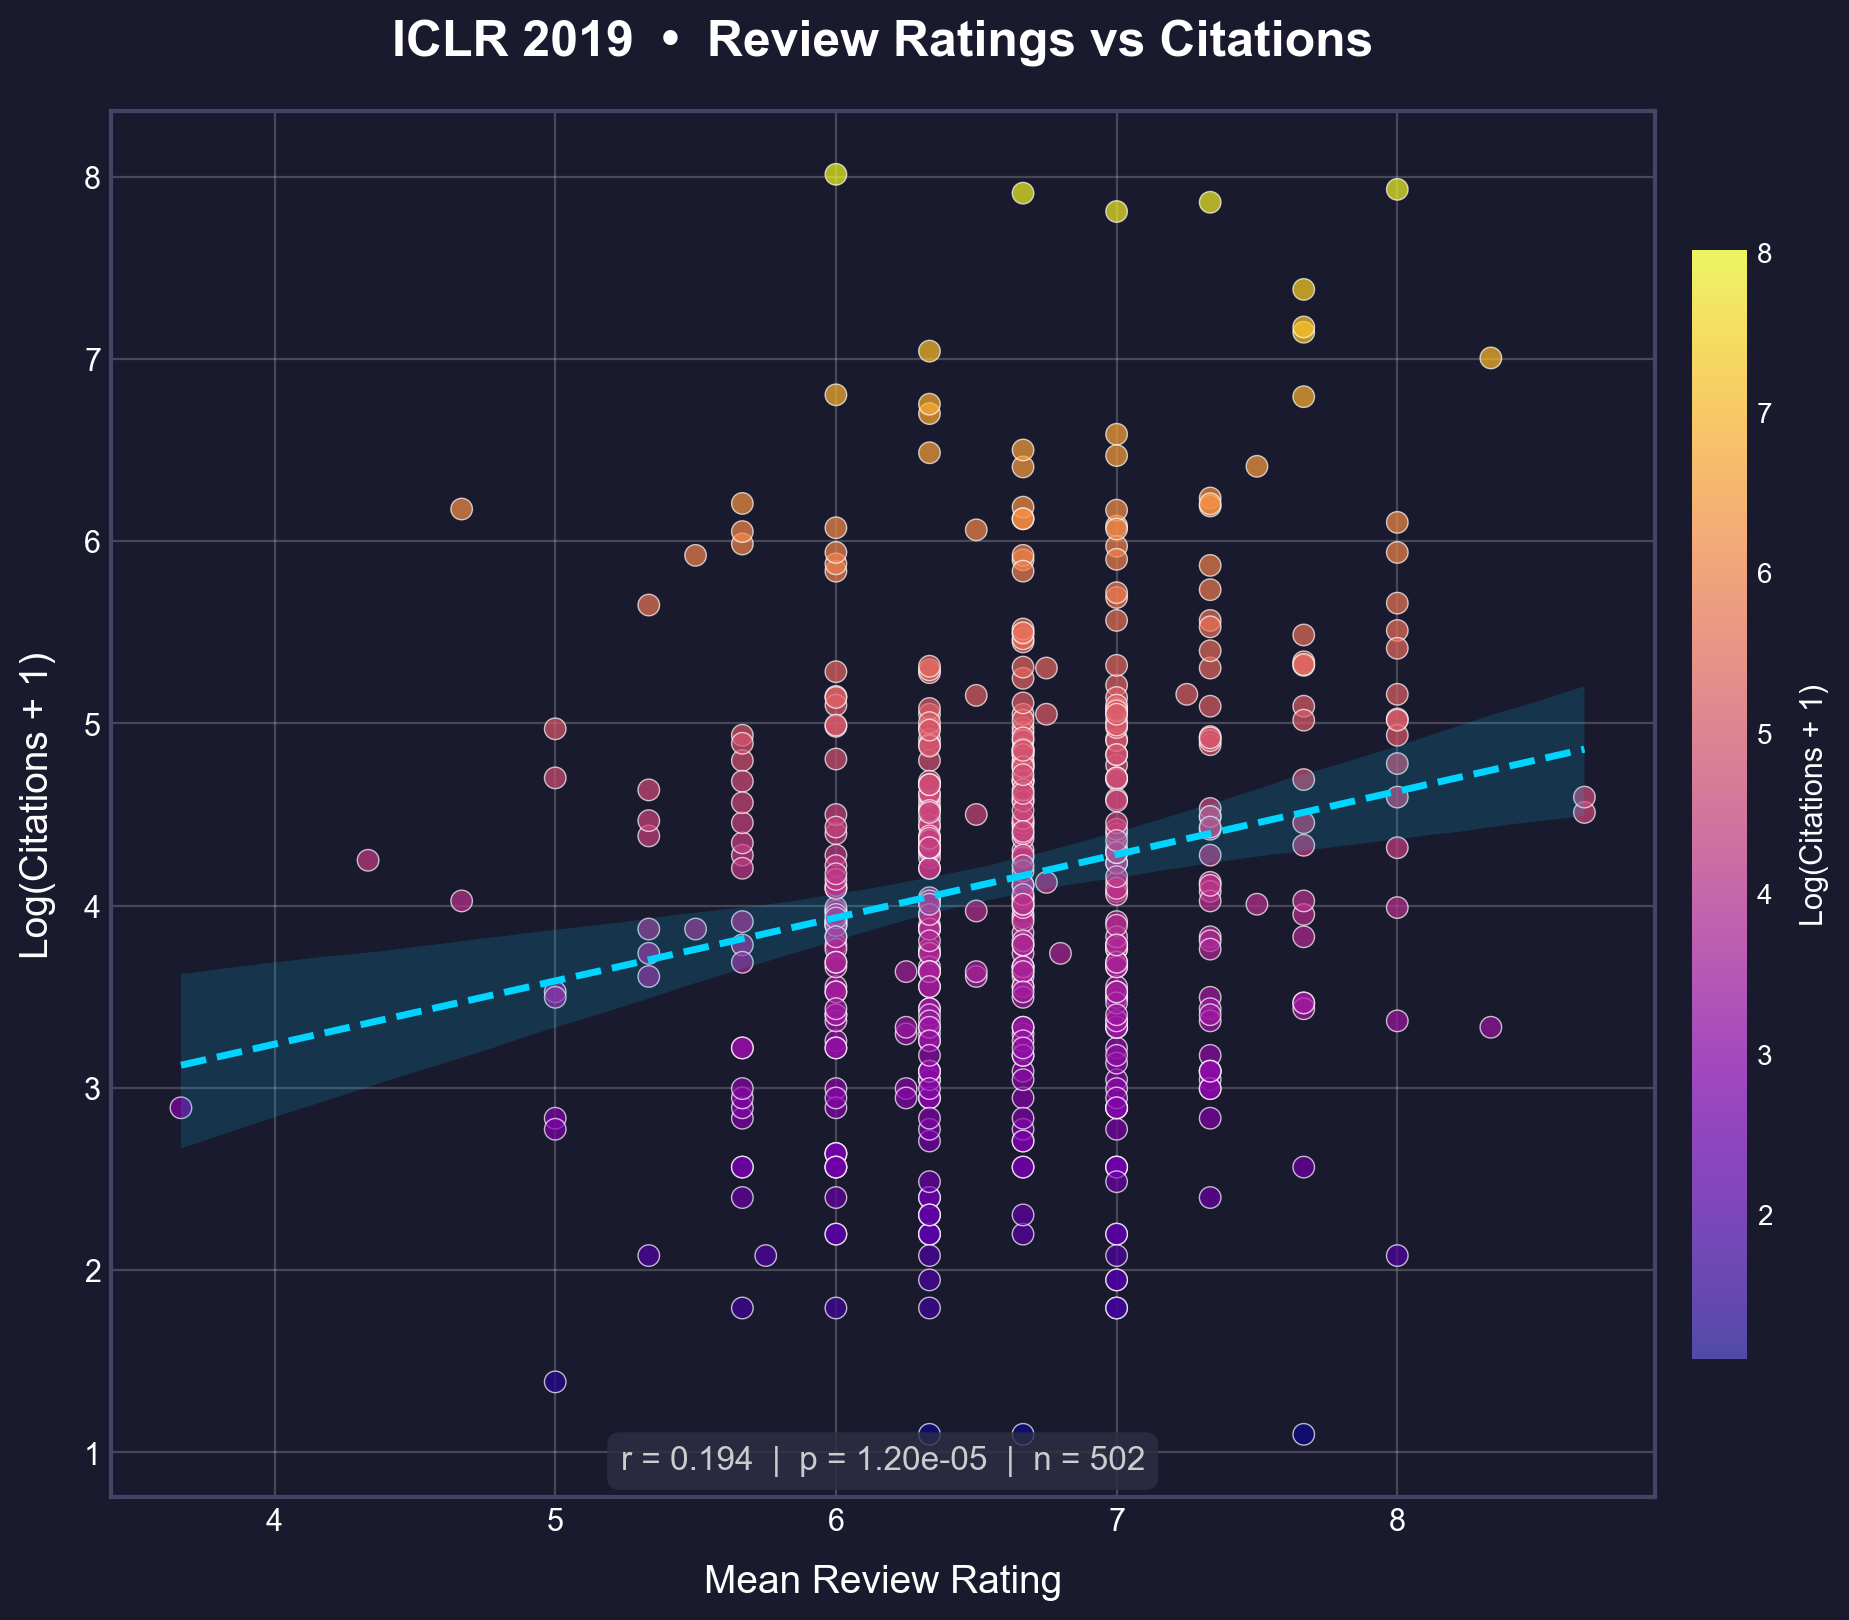
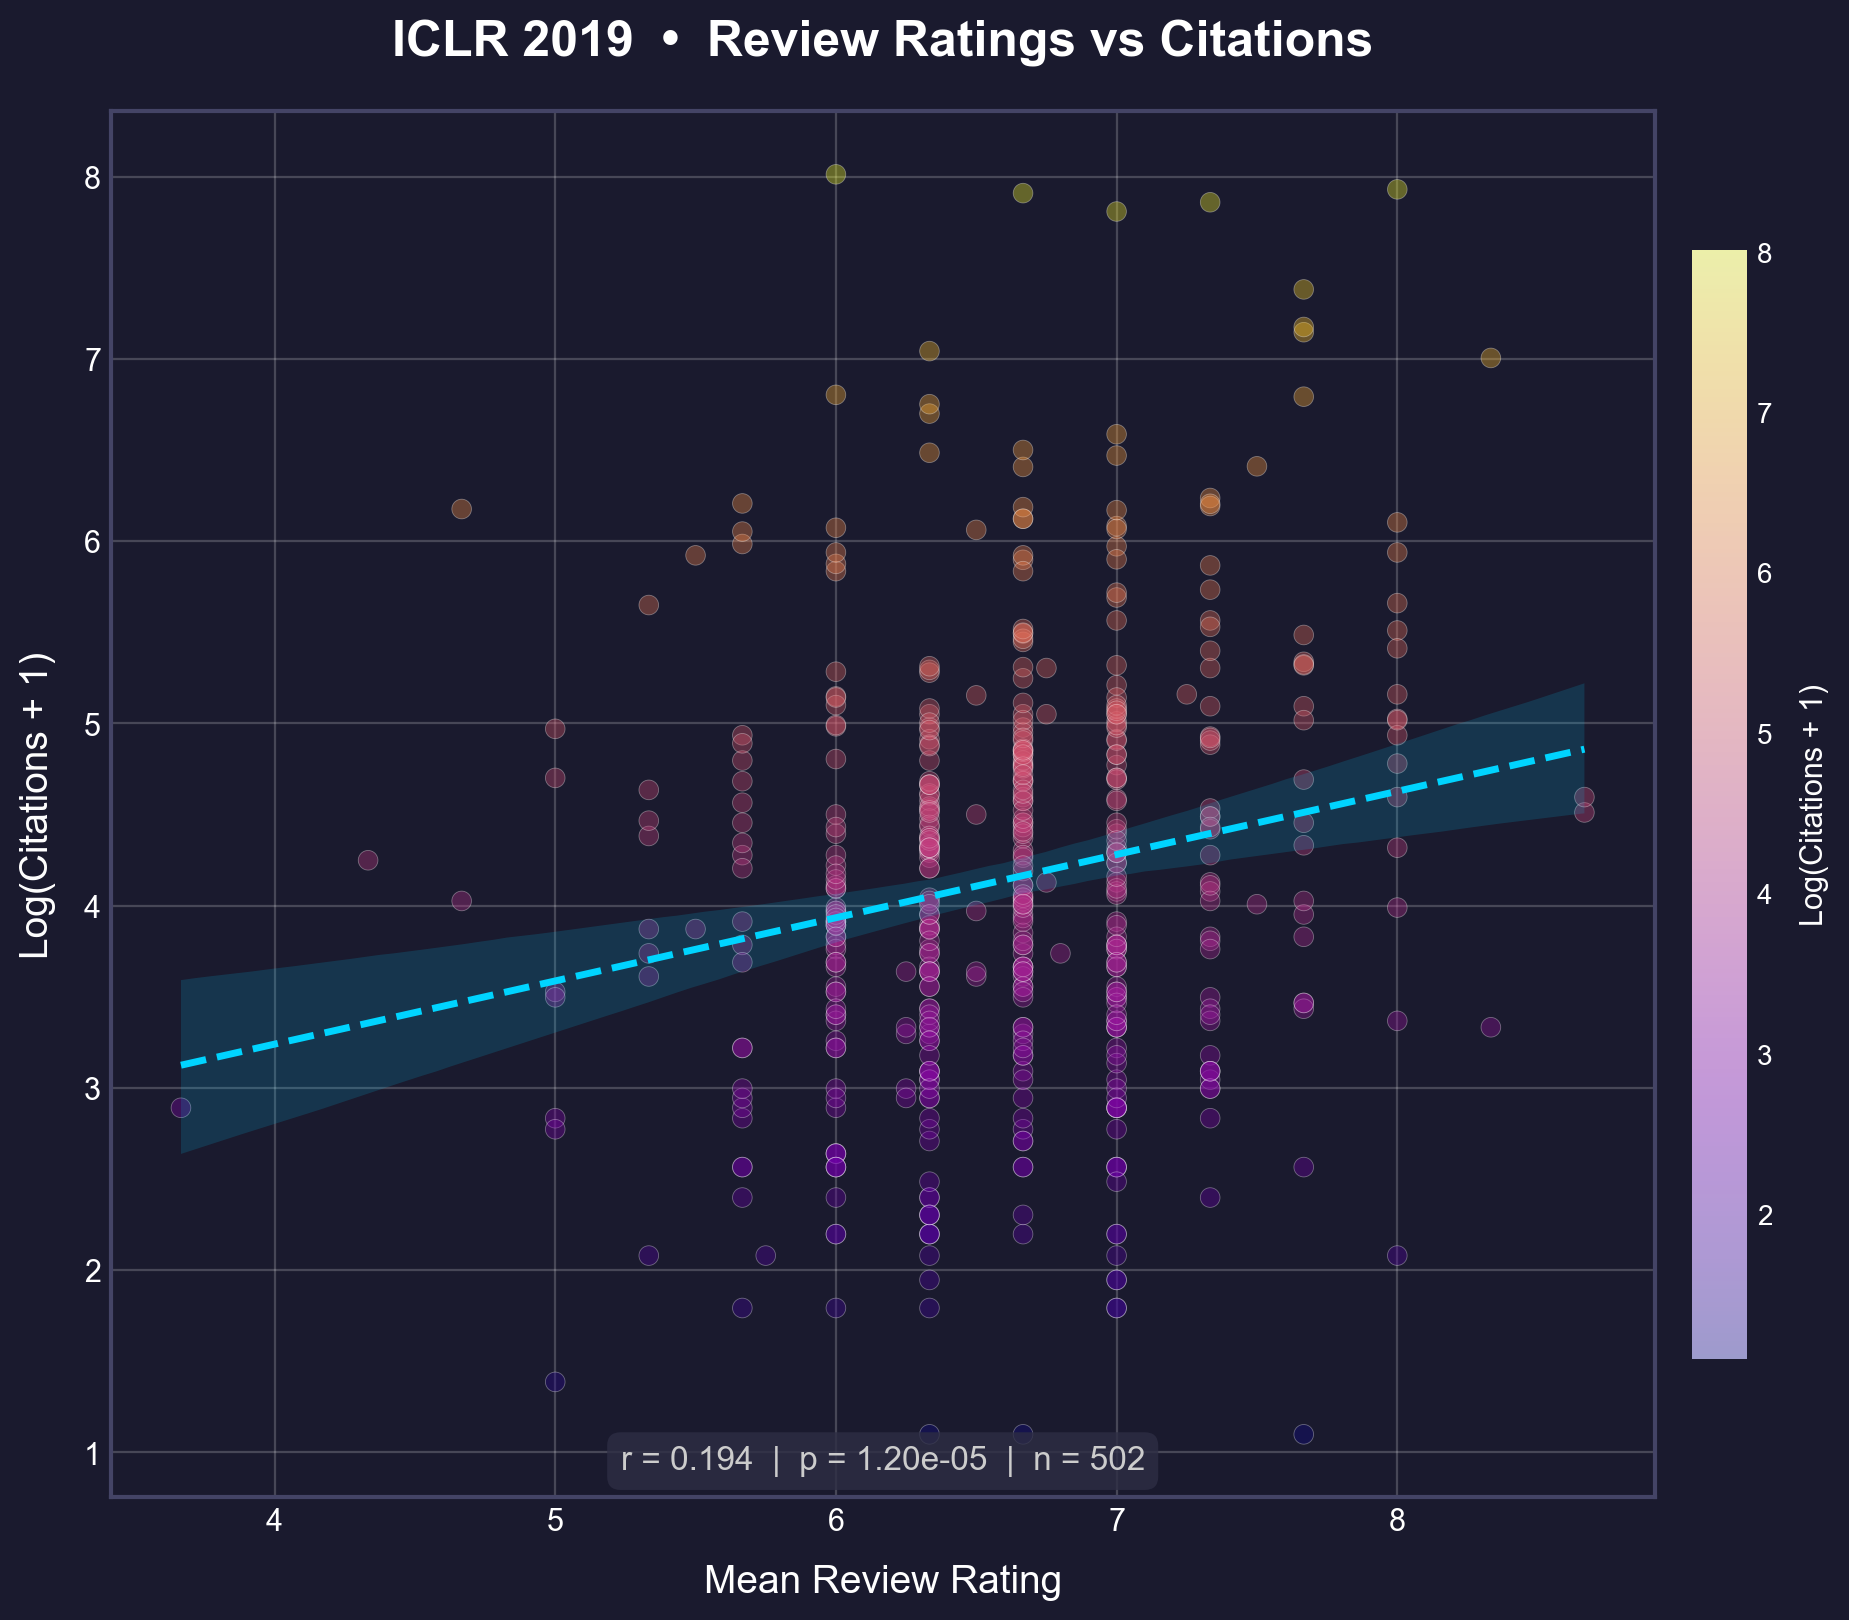
FIX: figure alpha, rearranged in readme.md

diff --git a/scripts/analyze.py b/scripts/analyze.py
@@ -102,10 +102,10 @@ def plot_correlation(
         plot_df["log_citations"],
         c=colors,
         cmap='plasma',
-        alpha=0.7,
-        s=60,
+        alpha=0.35,
+        s=50,
         edgecolors='white',
-        linewidths=0.5,
+        linewidths=0.3,
     )
     
     # Add colorbar

diff --git a/readme.md b/readme.md
@@ -21,10 +21,31 @@
 | 2019 | 502 | 0.19 | 1.2e-05 |
 | 2020 | 687 | 0.13 | 8.9e-04 |
 
-![2017](https://raw.githubusercontent.com/isingmodel/openreview_ratings_vs_citations/master/figs/Log_Citation_vs_Review_Rating_ICLR_2017.png?raw=true)
-![2018](https://raw.githubusercontent.com/isingmodel/openreview_ratings_vs_citations/master/figs/Log_Citation_vs_Review_Rating_ICLR_2018.png?raw=true)
-![2019](https://raw.githubusercontent.com/isingmodel/openreview_ratings_vs_citations/master/figs/Log_Citation_vs_Review_Rating_ICLR_2019.png?raw=true)
-![2020](https://raw.githubusercontent.com/isingmodel/openreview_ratings_vs_citations/master/figs/Log_Citation_vs_Review_Rating_ICLR_2020.png?raw=true)
+<table>
+  <tr>
+    <td><img src="https://raw.githubusercontent.com/isingmodel/openreview_ratings_vs_citations/master/figs/Log_Citation_vs_Review_Rating_ICLR_2017.png" width="400"/></td>
+    <td><img src="https://raw.githubusercontent.com/isingmodel/openreview_ratings_vs_citations/master/figs/Log_Citation_vs_Review_Rating_ICLR_2018.png" width="400"/></td>
+  </tr>
+  <tr>
+    <td><img src="https://raw.githubusercontent.com/isingmodel/openreview_ratings_vs_citations/master/figs/Log_Citation_vs_Review_Rating_ICLR_2019.png" width="400"/></td>
+    <td><img src="https://raw.githubusercontent.com/isingmodel/openreview_ratings_vs_citations/master/figs/Log_Citation_vs_Review_Rating_ICLR_2020.png" width="400"/></td>
+  </tr>
+</table>
+
+### Methodology
+
+We measure the relationship between **mean review rating** and **log-transformed citation counts** using **Pearson correlation coefficient (r)**.
+
+**Why log(citations + 1)?**
+
+Citation counts exhibit a highly skewed, heavy-tailed distribution—a few papers receive thousands of citations while most receive very few. This is a well-documented phenomenon in bibliometrics ([Redner, 1998](https://doi.org/10.1007/s100510050276); [Radicchi et al., 2008](https://doi.org/10.1073/pnas.0806977105)).
+
+Log transformation addresses this by:
+- **Reducing outlier dominance**: A paper with 10,000 citations won't disproportionately skew the regression line
+- **Reflecting scale-level differences**: The difference between 10→100 citations is more meaningful than 10,000→10,090
+- **Normalizing the distribution**: Enables valid application of Pearson correlation (which assumes roughly normal distributions)
+
+We use `log(x + 1)` to handle papers with zero citations.
 
 ---
 
